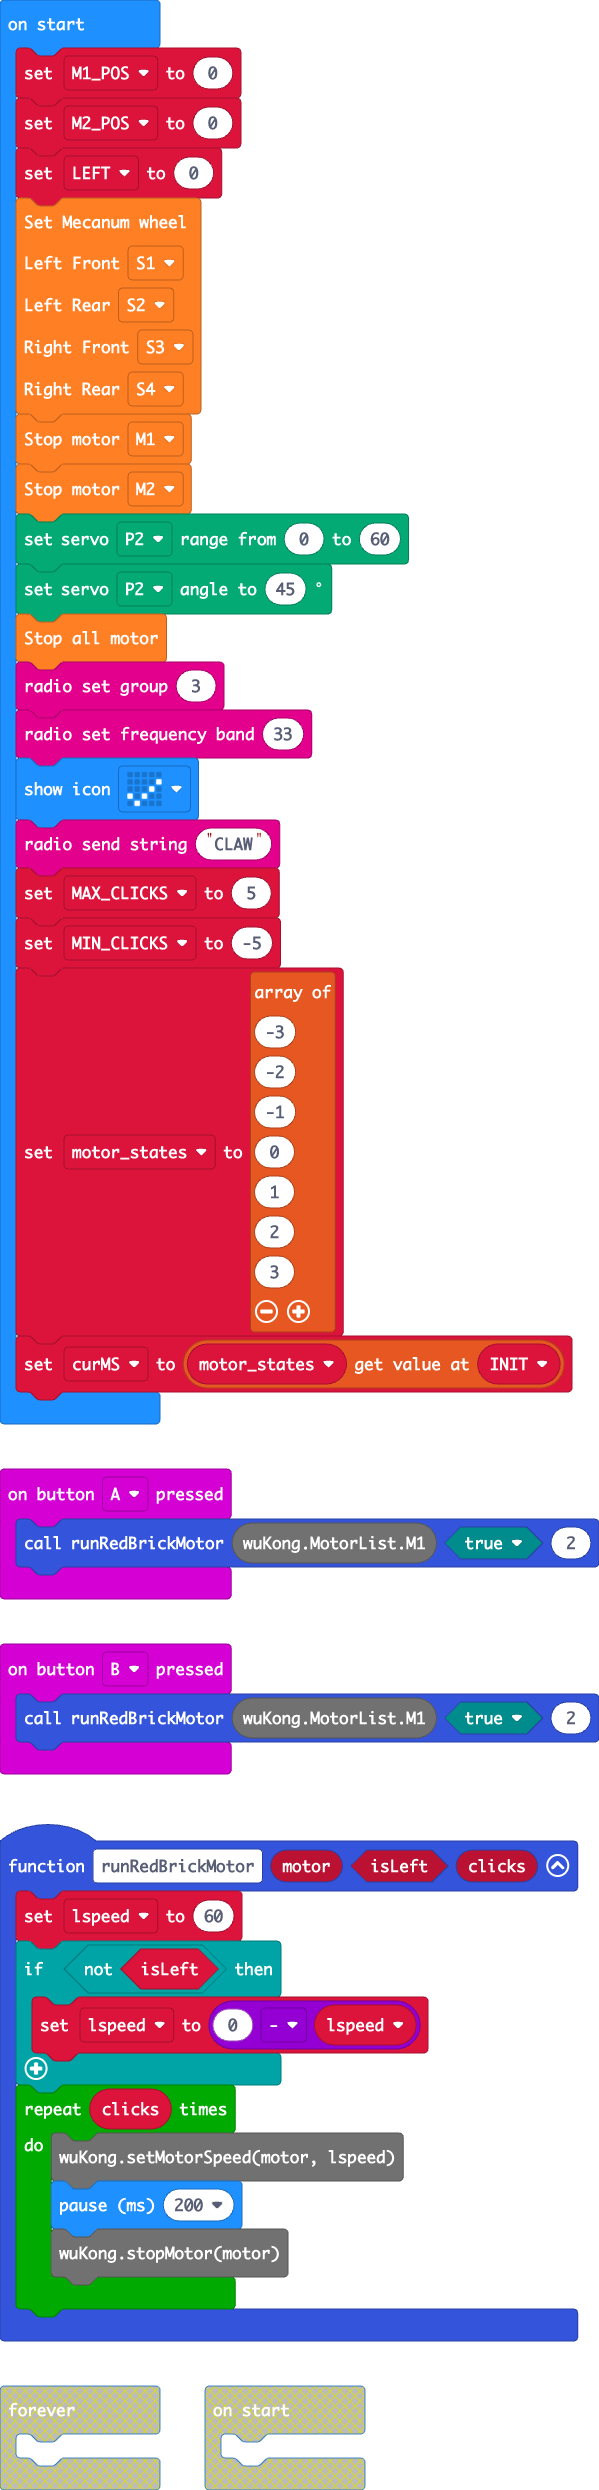
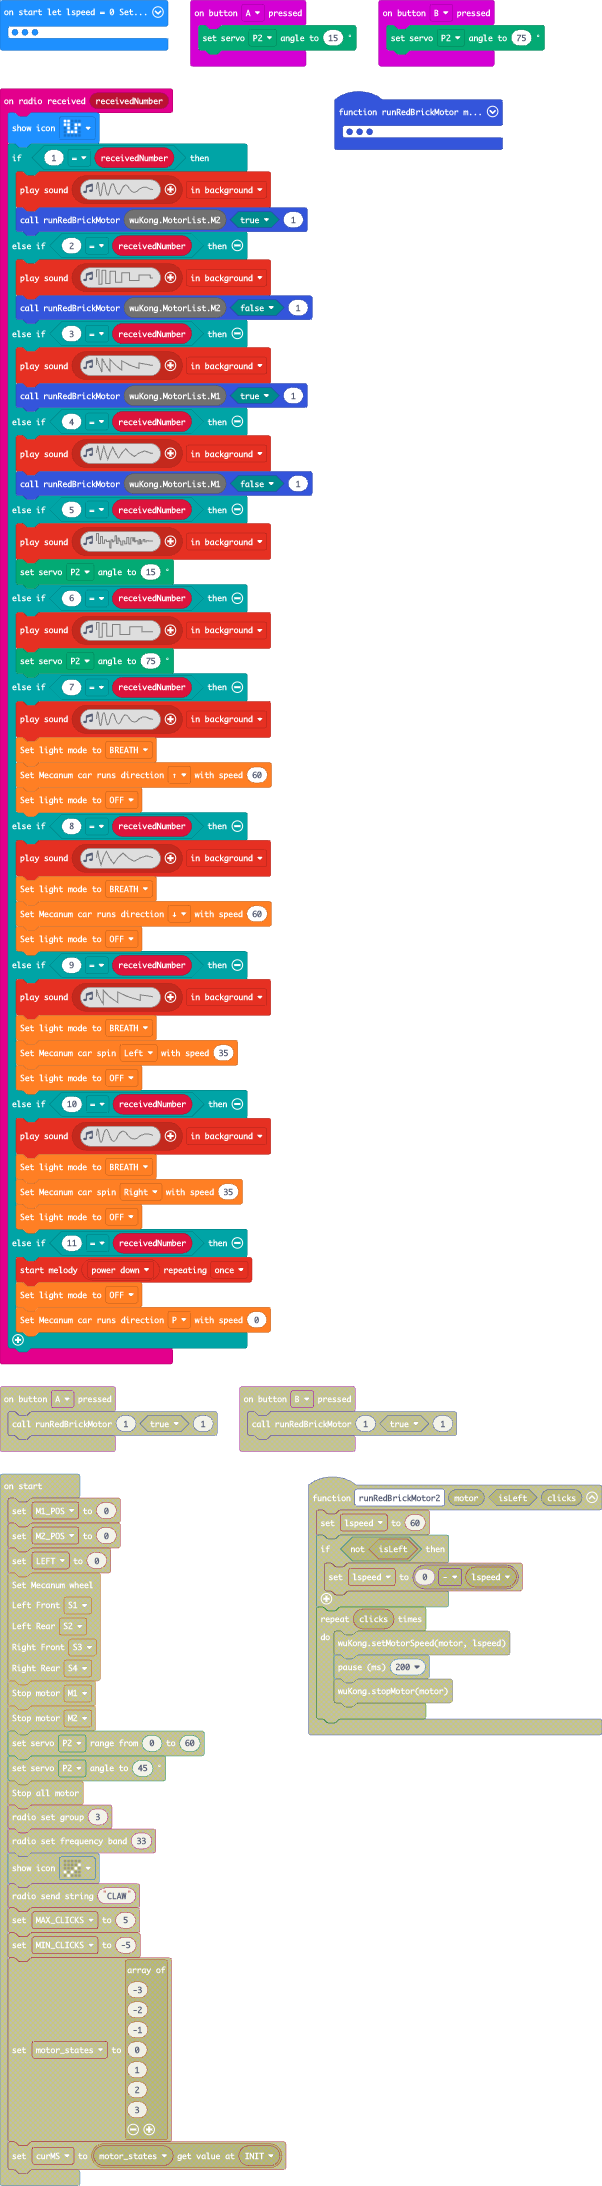
Update pxt.json, main.blocks, main.ts, main.py

diff --git a/main.ts b/main.ts
@@ -1,39 +1,80 @@
-function runRedBrickMotor(motor: number, isLeft: boolean, clicks: number) {
-    
-    lspeed = 60
-    if (!isLeft) {
+radio.onReceivedNumber(function (receivedNumber) {
+    basic.showIcon(IconNames.Snake)
+    if (1 == receivedNumber) {
+        music.playSoundEffect(music.createSoundEffect(WaveShape.Sine, 5000, 0, 255, 0, 500, SoundExpressionEffect.None, InterpolationCurve.Linear), SoundExpressionPlayMode.InBackground)
+        runRedBrickMotor(wuKong.MotorList.M2, true, 1)
+    } else if (2 == receivedNumber) {
+        music.playSoundEffect(music.createSoundEffect(WaveShape.Square, 5000, 0, 255, 0, 500, SoundExpressionEffect.None, InterpolationCurve.Linear), SoundExpressionPlayMode.InBackground)
+        runRedBrickMotor(wuKong.MotorList.M2, false, 1)
+    } else if (3 == receivedNumber) {
+        music.playSoundEffect(music.createSoundEffect(WaveShape.Sawtooth, 5000, 0, 255, 0, 500, SoundExpressionEffect.None, InterpolationCurve.Linear), SoundExpressionPlayMode.InBackground)
+        runRedBrickMotor(wuKong.MotorList.M1, true, 1)
+    } else if (4 == receivedNumber) {
+        music.playSoundEffect(music.createSoundEffect(WaveShape.Triangle, 5000, 0, 255, 0, 500, SoundExpressionEffect.None, InterpolationCurve.Linear), SoundExpressionPlayMode.InBackground)
+        runRedBrickMotor(wuKong.MotorList.M1, false, 1)
+    } else if (5 == receivedNumber) {
+        music.playSoundEffect(music.createSoundEffect(WaveShape.Noise, 5000, 0, 255, 0, 500, SoundExpressionEffect.None, InterpolationCurve.Linear), SoundExpressionPlayMode.InBackground)
+        servos.P2.setAngle(15)
+    } else if (6 == receivedNumber) {
+        music.playSoundEffect(music.createSoundEffect(WaveShape.Square, 5000, 0, 255, 0, 500, SoundExpressionEffect.Vibrato, InterpolationCurve.Curve), SoundExpressionPlayMode.InBackground)
+        servos.P2.setAngle(75)
+    } else if (7 == receivedNumber) {
+        music.playSoundEffect(music.createSoundEffect(WaveShape.Sine, 5000, 0, 255, 0, 500, SoundExpressionEffect.Tremolo, InterpolationCurve.Linear), SoundExpressionPlayMode.InBackground)
+        wuKong.setLightMode(wuKong.LightMode.BREATH)
+        wuKong.mecanumRun(wuKong.RunList.Front, 60)
+        wuKong.setLightMode(wuKong.LightMode.OFF)
+    } else if (8 == receivedNumber) {
+        music.playSoundEffect(music.createSoundEffect(WaveShape.Triangle, 5000, 0, 255, 0, 500, SoundExpressionEffect.Tremolo, InterpolationCurve.Logarithmic), SoundExpressionPlayMode.InBackground)
+        wuKong.setLightMode(wuKong.LightMode.BREATH)
+        wuKong.mecanumRun(wuKong.RunList.rear, 60)
+        wuKong.setLightMode(wuKong.LightMode.OFF)
+    } else if (9 == receivedNumber) {
+        music.playSoundEffect(music.createSoundEffect(WaveShape.Sawtooth, 5000, 0, 255, 0, 500, SoundExpressionEffect.Warble, InterpolationCurve.Logarithmic), SoundExpressionPlayMode.InBackground)
+        wuKong.setLightMode(wuKong.LightMode.BREATH)
+        wuKong.mecanumSpin(wuKong.TurnList.Left, 35)
+        wuKong.setLightMode(wuKong.LightMode.OFF)
+    } else if (10 == receivedNumber) {
+        music.playSoundEffect(music.createSoundEffect(WaveShape.Sine, 5000, 0, 255, 0, 500, SoundExpressionEffect.Warble, InterpolationCurve.Logarithmic), SoundExpressionPlayMode.InBackground)
+        wuKong.setLightMode(wuKong.LightMode.BREATH)
+        wuKong.mecanumSpin(wuKong.TurnList.Right, 35)
+        wuKong.setLightMode(wuKong.LightMode.OFF)
+    } else if (11 == receivedNumber) {
+        music.startMelody(music.builtInMelody(Melodies.PowerDown), MelodyOptions.Once)
+        wuKong.setLightMode(wuKong.LightMode.OFF)
+        wuKong.mecanumRun(wuKong.RunList.stop, 0)
+    }
+})
+function runRedBrickMotor (motor: number, isLeft: boolean, clicks: number) {
+    lspeed = 50
+    if (!(isLeft)) {
         lspeed = 0 - lspeed
     }
-    
     for (let index = 0; index < clicks; index++) {
         wuKong.setMotorSpeed(motor, lspeed)
-        basic.pause(200)
-        wuKong.stopMotor(motor)
+basic.pause(100)
     }
+    wuKong.stopMotor(motor)
 }
-
-input.onButtonPressed(Button.A, function on_button_pressed_a() {
-    runRedBrickMotor(wuKong.MotorList.M1, false, 3)
+input.onButtonPressed(Button.A, function () {
+    servos.P2.setAngle(15)
 })
-input.onButtonPressed(Button.B, function on_button_pressed_b() {
-    runRedBrickMotor(wuKong.MotorList.M2, true, 2)
+input.onButtonPressed(Button.B, function () {
+    servos.P2.setAngle(75)
 })
 let lspeed = 0
-let INIT = 0
-let M1_POS = 0
-let M2_POS = 0
-let LEFT = 0
-wuKong.mecanumWheel(wuKong.ServoList.S1, wuKong.ServoList.S2, wuKong.ServoList.S3, wuKong.ServoList.S4)
+wuKong.mecanumWheel(
+wuKong.ServoList.S1,
+wuKong.ServoList.S2,
+wuKong.ServoList.S3,
+wuKong.ServoList.S4
+)
 wuKong.stopMotor(wuKong.MotorList.M1)
 wuKong.stopMotor(wuKong.MotorList.M2)
-servos.P2.setRange(0, 60)
-servos.P2.setAngle(45)
+servos.P2.setRange(15, 80)
+servos.P2.setAngle(15)
 wuKong.stopAllMotor()
+wuKong.setLightMode(wuKong.LightMode.BREATH)
 radio.setGroup(3)
 radio.setFrequencyBand(33)
-basic.showIcon(IconNames.Yes)
+basic.showIcon(IconNames.Heart)
 radio.sendString("CLAW")
-let MAX_CLICKS = 5
-let MIN_CLICKS = -5
-let motor_states = [-3, -2, -1, 0, 1, 2, 3]
-let curMS = motor_states[INIT]

diff --git a/main.py b/main.py
@@ -1,26 +1,40 @@
+def on_received_number(receivedNumber):
+    if 1 == receivedNumber:
+        runRedBrickMotor(wuKong.MotorList.M2, True, 1)
+    elif 2 == receivedNumber:
+        runRedBrickMotor(wuKong.MotorList.M2, False, 1)
+    elif 3 == receivedNumber:
+        runRedBrickMotor(wuKong.MotorList.M1, True, 1)
+    elif 4 == receivedNumber:
+        runRedBrickMotor(wuKong.MotorList.M1, False, 1)
+    elif 5 == receivedNumber:
+        servos.P2.set_angle(0)
+    elif 6 == receivedNumber:
+        servos.P2.set_angle(60)
+    else:
+        pass
+radio.on_received_number(on_received_number)
+
 def runRedBrickMotor(motor: number, isLeft: bool, clicks: number):
     global lspeed
-    lspeed = 60
+    lspeed = 50
     if not (isLeft):
         lspeed = 0 - lspeed
     for index in range(clicks):
         wuKong.set_motor_speed(motor, lspeed)
-        basic.pause(200)
-        wuKong.stop_motor(motor)
+        basic.pause(100)
+    wuKong.stop_motor(motor)
 
 def on_button_pressed_a():
-    runRedBrickMotor(wuKong.MotorList.M1, False, 3)
+    servos.P2.set_angle(0)
 input.on_button_pressed(Button.A, on_button_pressed_a)
 
 def on_button_pressed_b():
-    runRedBrickMotor(wuKong.MotorList.M2, True, 2)
+    servos.P2.set_angle(60)
 input.on_button_pressed(Button.B, on_button_pressed_b)
 
 lspeed = 0
-INIT = 0
-M1_POS = 0
-M2_POS = 0
-LEFT = 0
+
 wuKong.mecanum_wheel(wuKong.ServoList.S1,
     wuKong.ServoList.S2,
     wuKong.ServoList.S3,
@@ -32,9 +46,7 @@ servos.P2.set_angle(45)
 wuKong.stop_all_motor()
 radio.set_group(3)
 radio.set_frequency_band(33)
-basic.show_icon(IconNames.YES)
+basic.show_icon(IconNames.CONFUSED)
 radio.send_string("CLAW")
 MAX_CLICKS = 5
 MIN_CLICKS = -5
-motor_states = [-3, -2, -1, 0, 1, 2, 3]
-curMS = motor_states[INIT]
